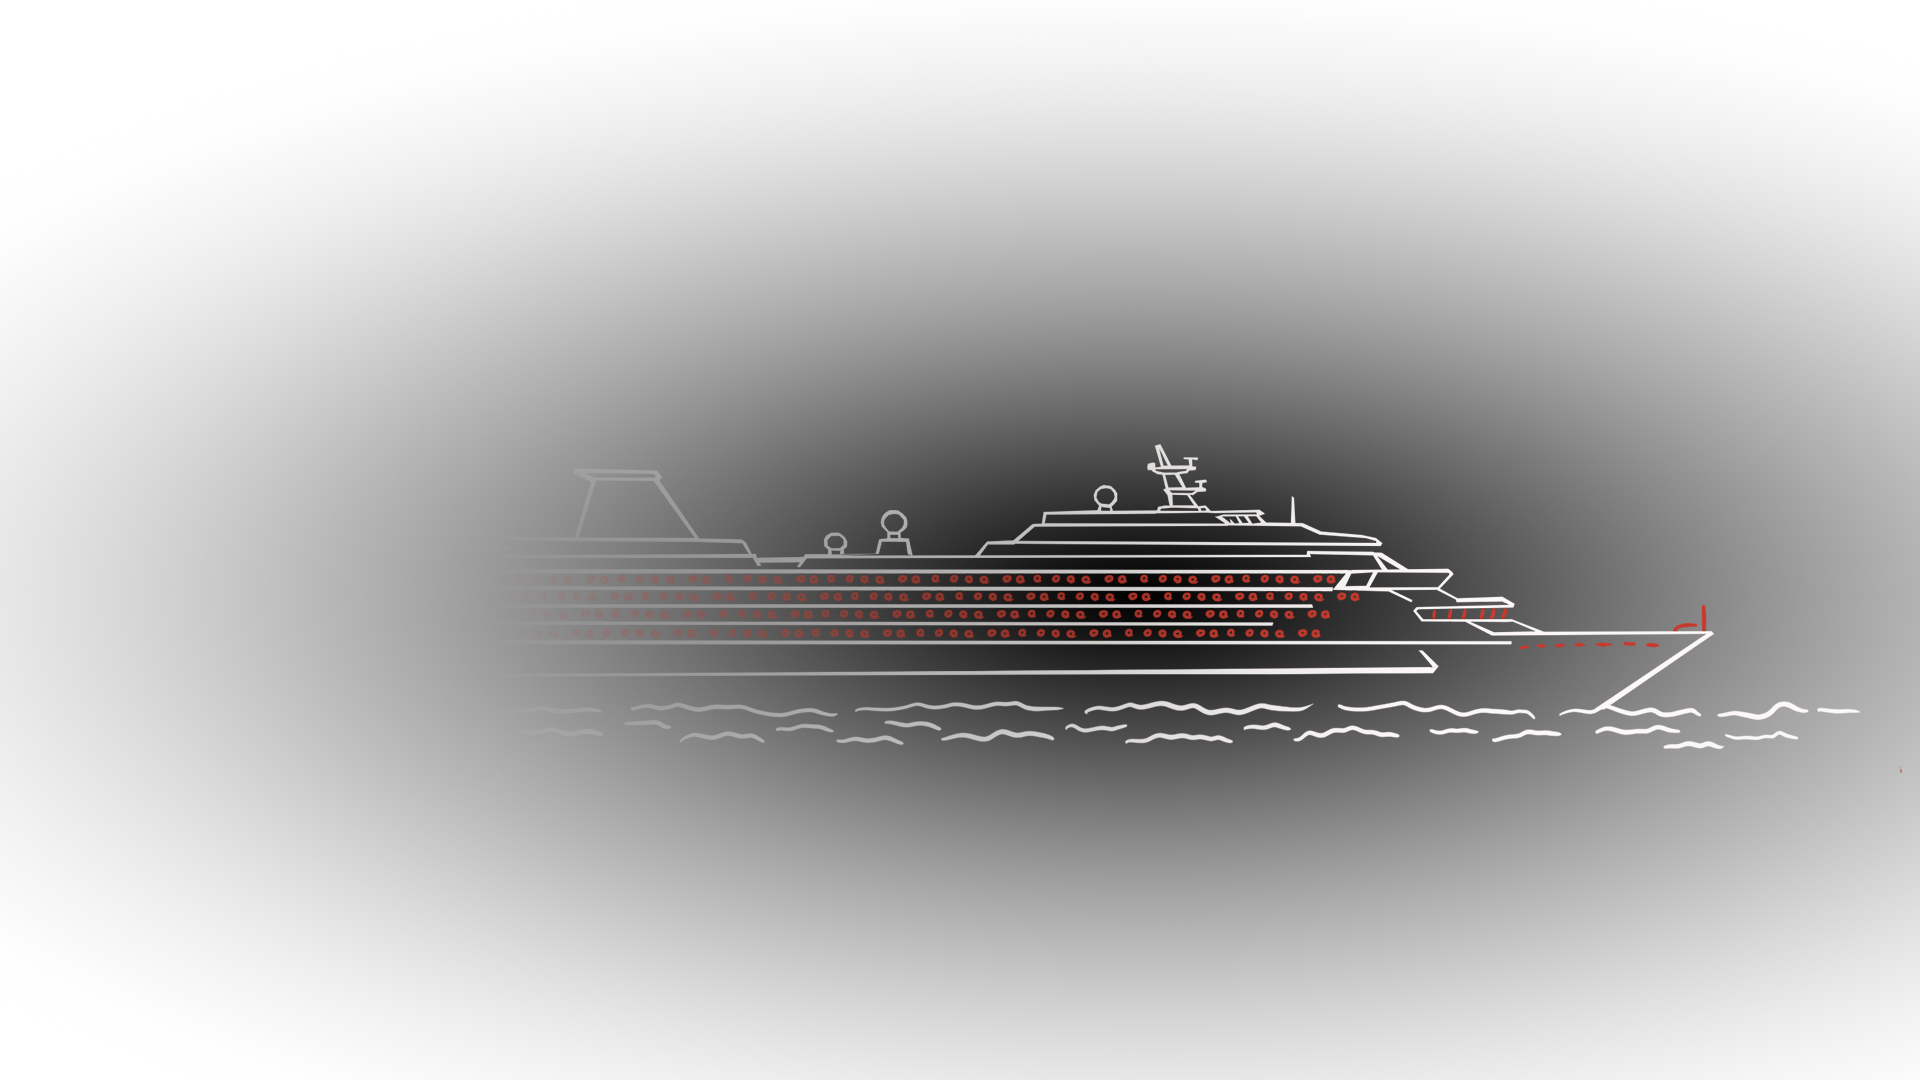
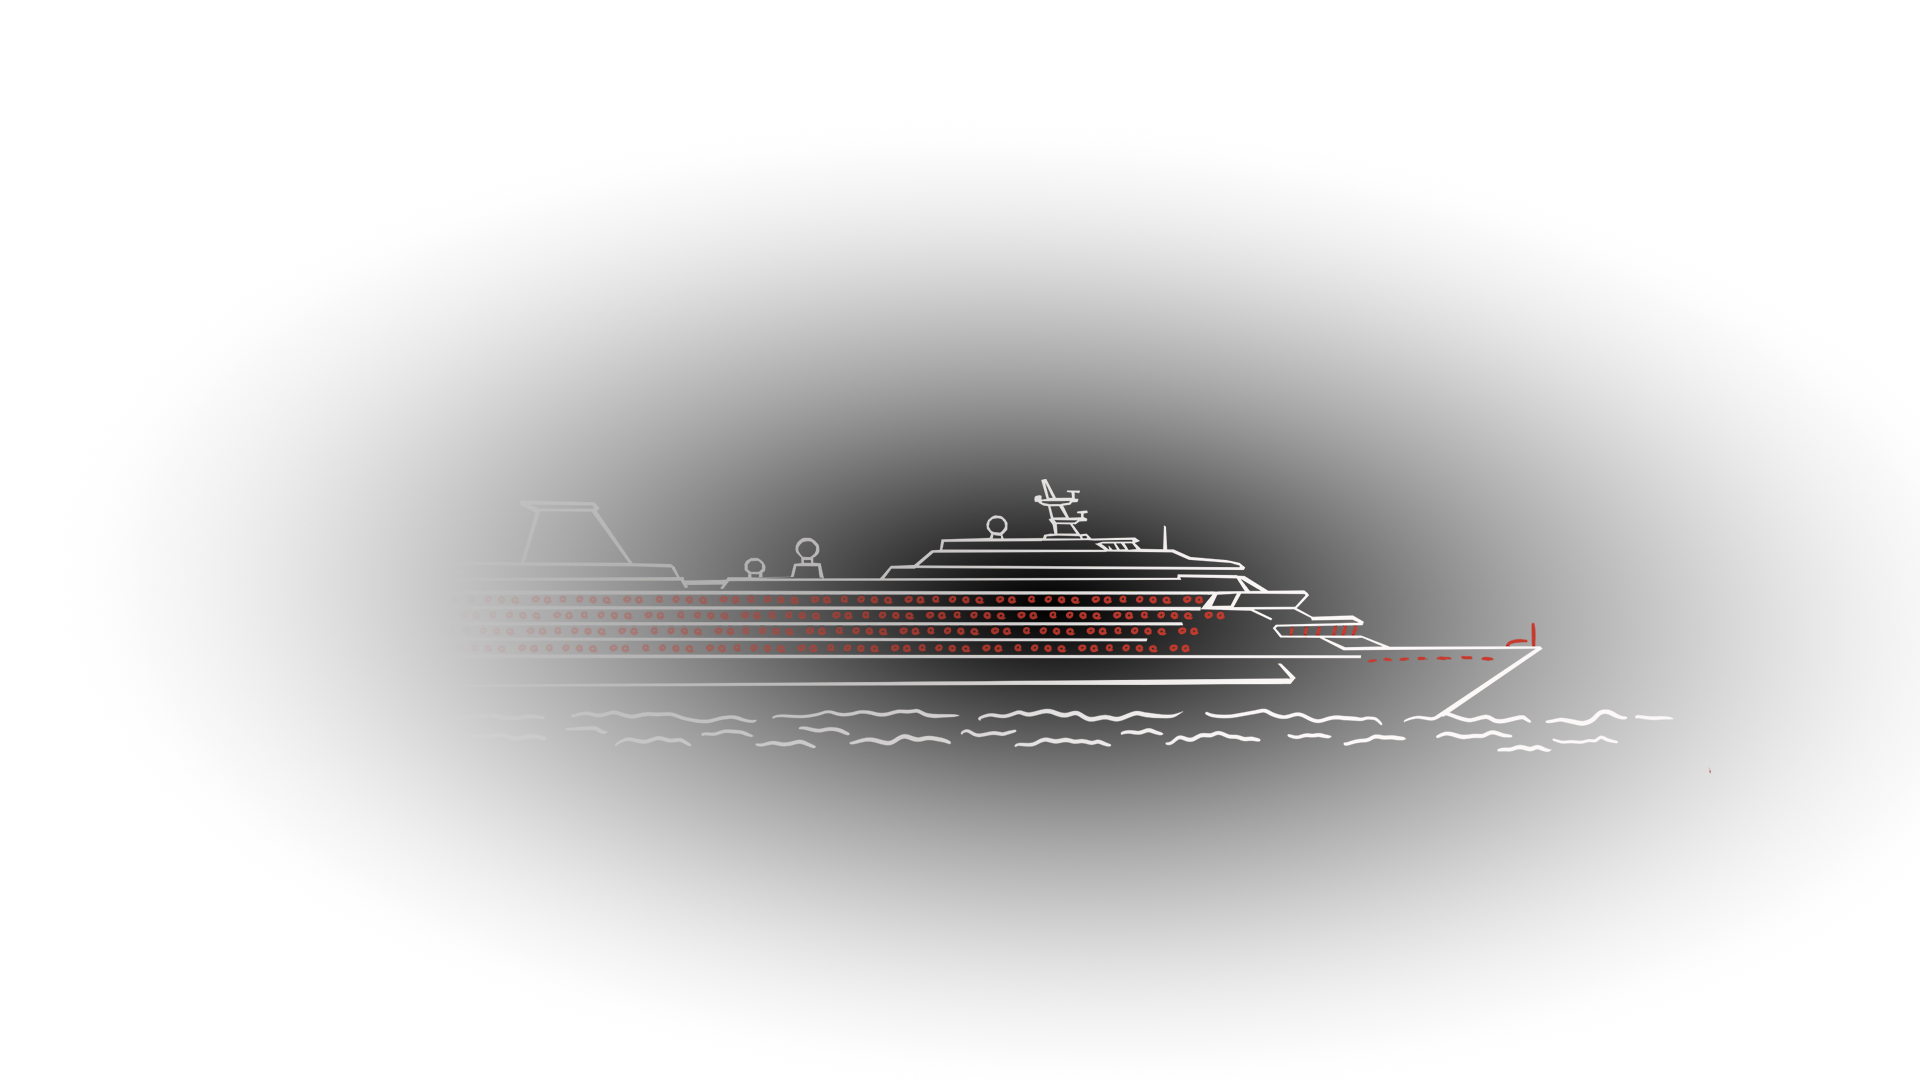
Use the final cruise ship art and restore the original Home hero layout.

diff --git a/src/app/page.tsx b/src/app/page.tsx
@@ -32,18 +32,18 @@ export default function HomePage() {
 
         <div className="relative mx-auto max-w-[1440px] px-4 pt-12 pb-10 md:px-12 md:pt-20 md:pb-12 lg:px-16">
           <div className="relative max-w-[1080px]">
-            <div className="pointer-events-none relative w-full origin-left mix-blend-screen select-none md:-translate-x-[4%]" aria-hidden>
+            <div className="pointer-events-none relative aspect-[1896/381] w-[97%] origin-left translate-x-0 scale-[0.97] mix-blend-screen select-none md:-translate-x-[24%]" aria-hidden>
               <Image
                 src={siteContent.assets.cruiseShip}
                 alt=""
-                width={1920}
-                height={1080}
-                className="relative h-auto w-full brightness-125 [mask-image:radial-gradient(ellipse_78%_58%_at_54%_50%,#000_30%,transparent_72%)] [-webkit-mask-image:radial-gradient(ellipse_78%_58%_at_54%_50%,#000_30%,transparent_72%)]"
+                fill
+                sizes="(min-width: 768px) 70vw, 95vw"
+                className="object-cover object-[center_78%] brightness-150 contrast-125"
                 priority
               />
             </div>
 
-            <div className="absolute inset-0 z-10 flex flex-col justify-center pb-10 md:pb-16">
+            <div className="absolute inset-0 z-10 flex flex-col justify-end pb-3 md:pb-4">
               <SectionLabel>{home.film.overline}</SectionLabel>
               <h2 className="!mt-1 max-w-[22ch] text-[26px] leading-[1.02] font-black text-white md:text-[40px]">
                 {home.film.headline.map((line) => (
